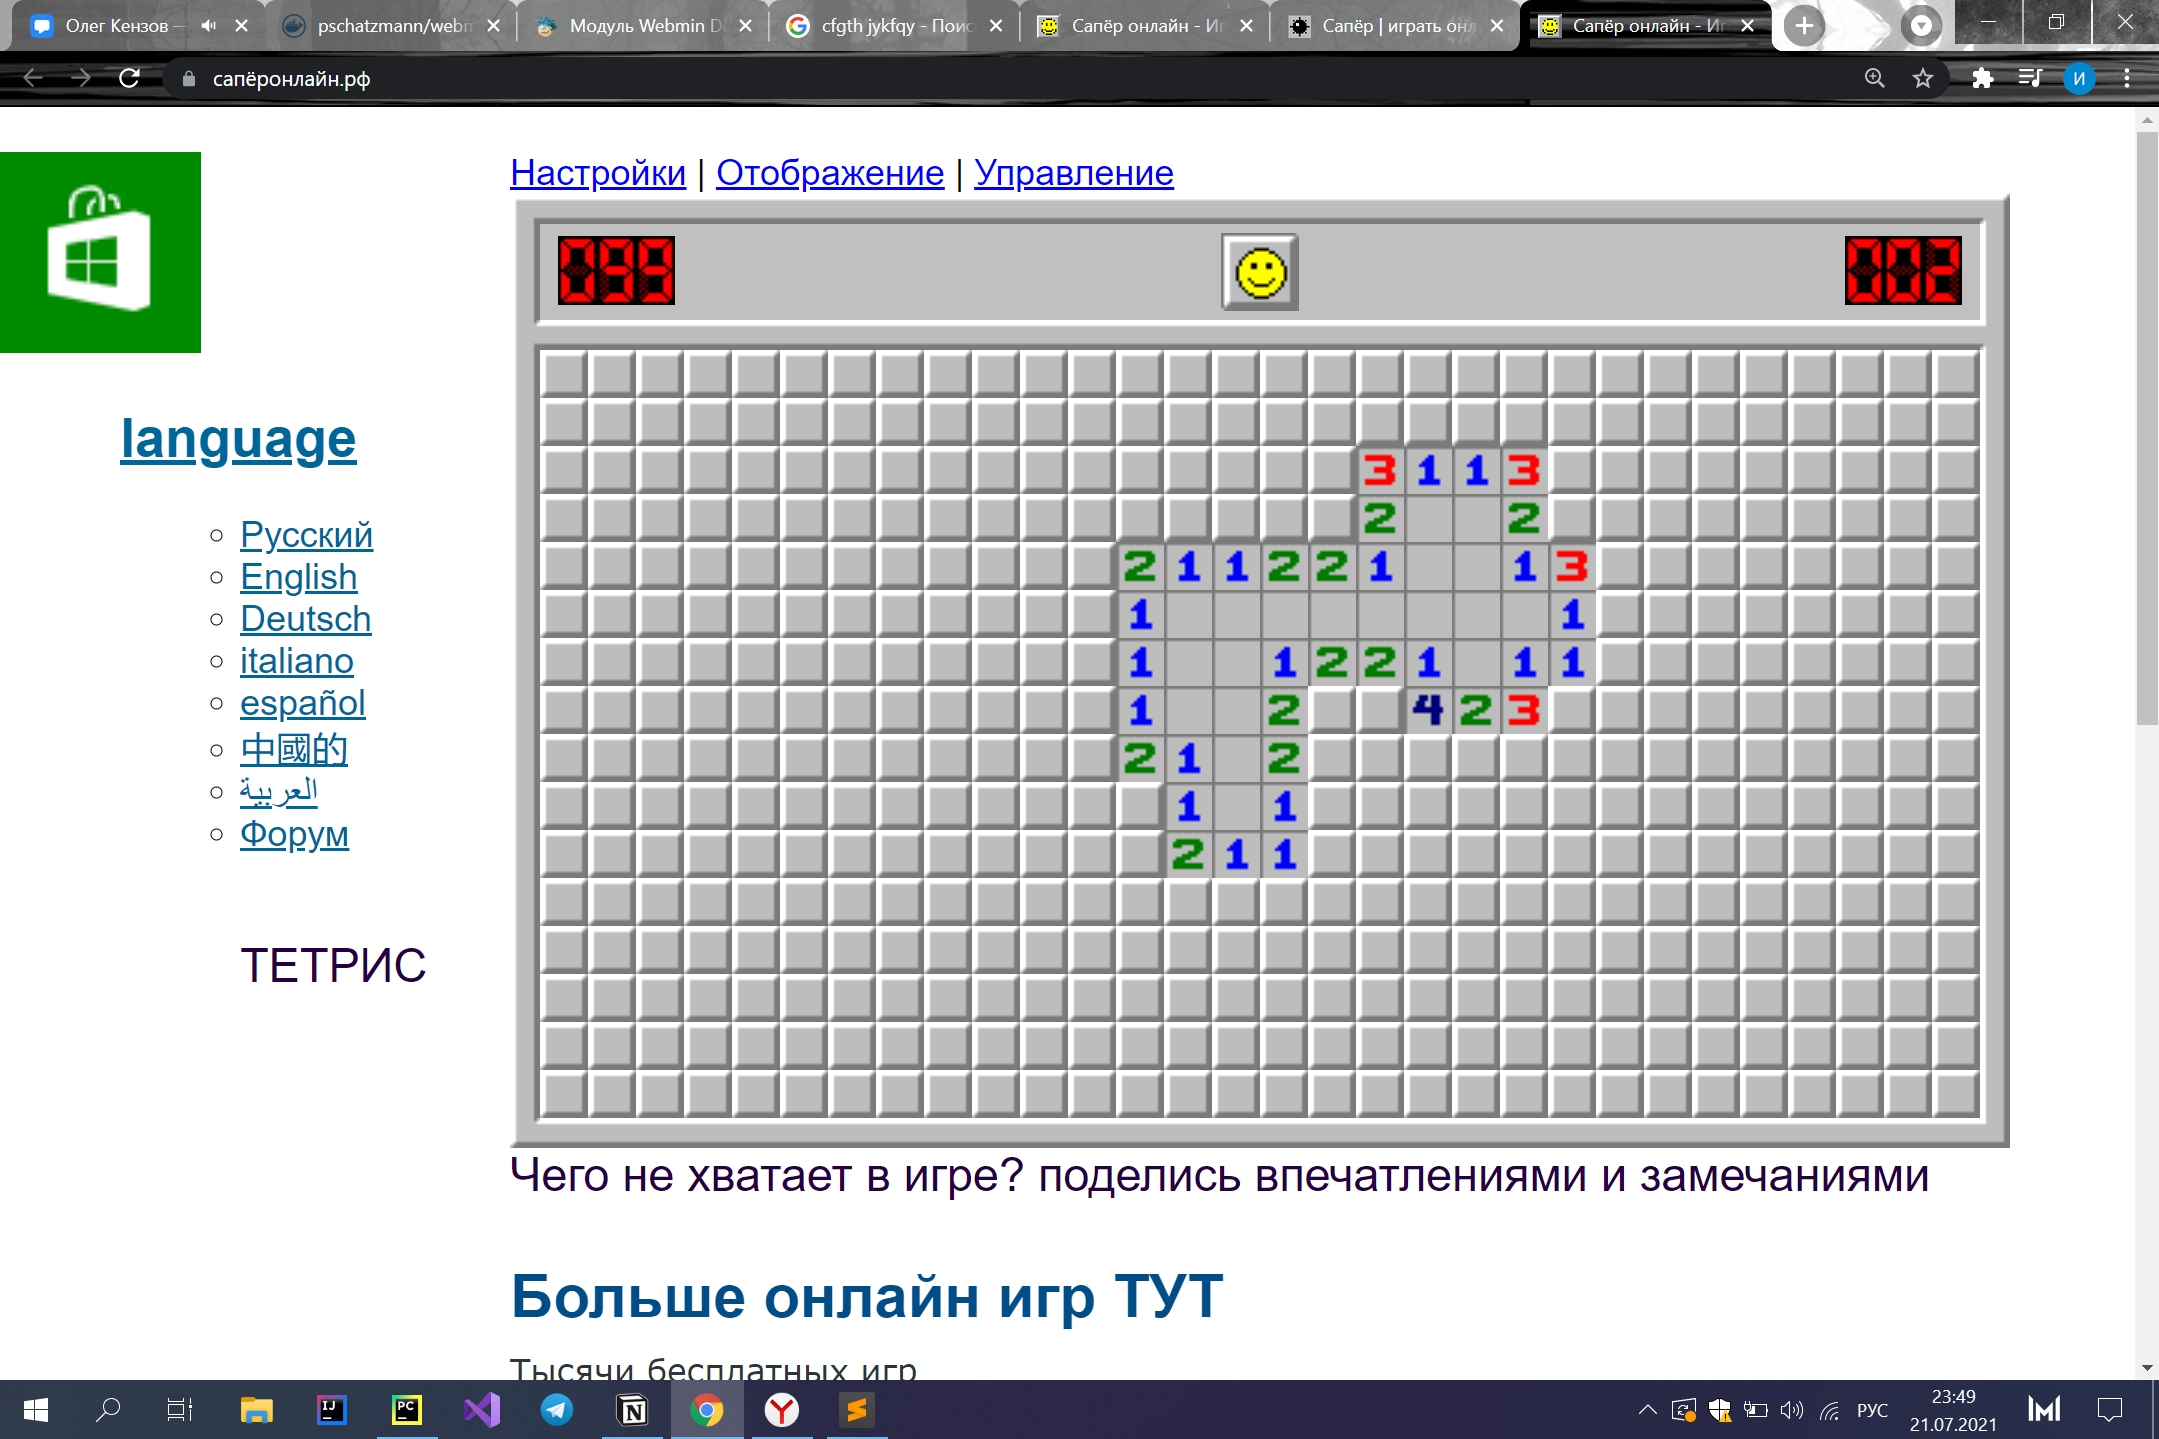
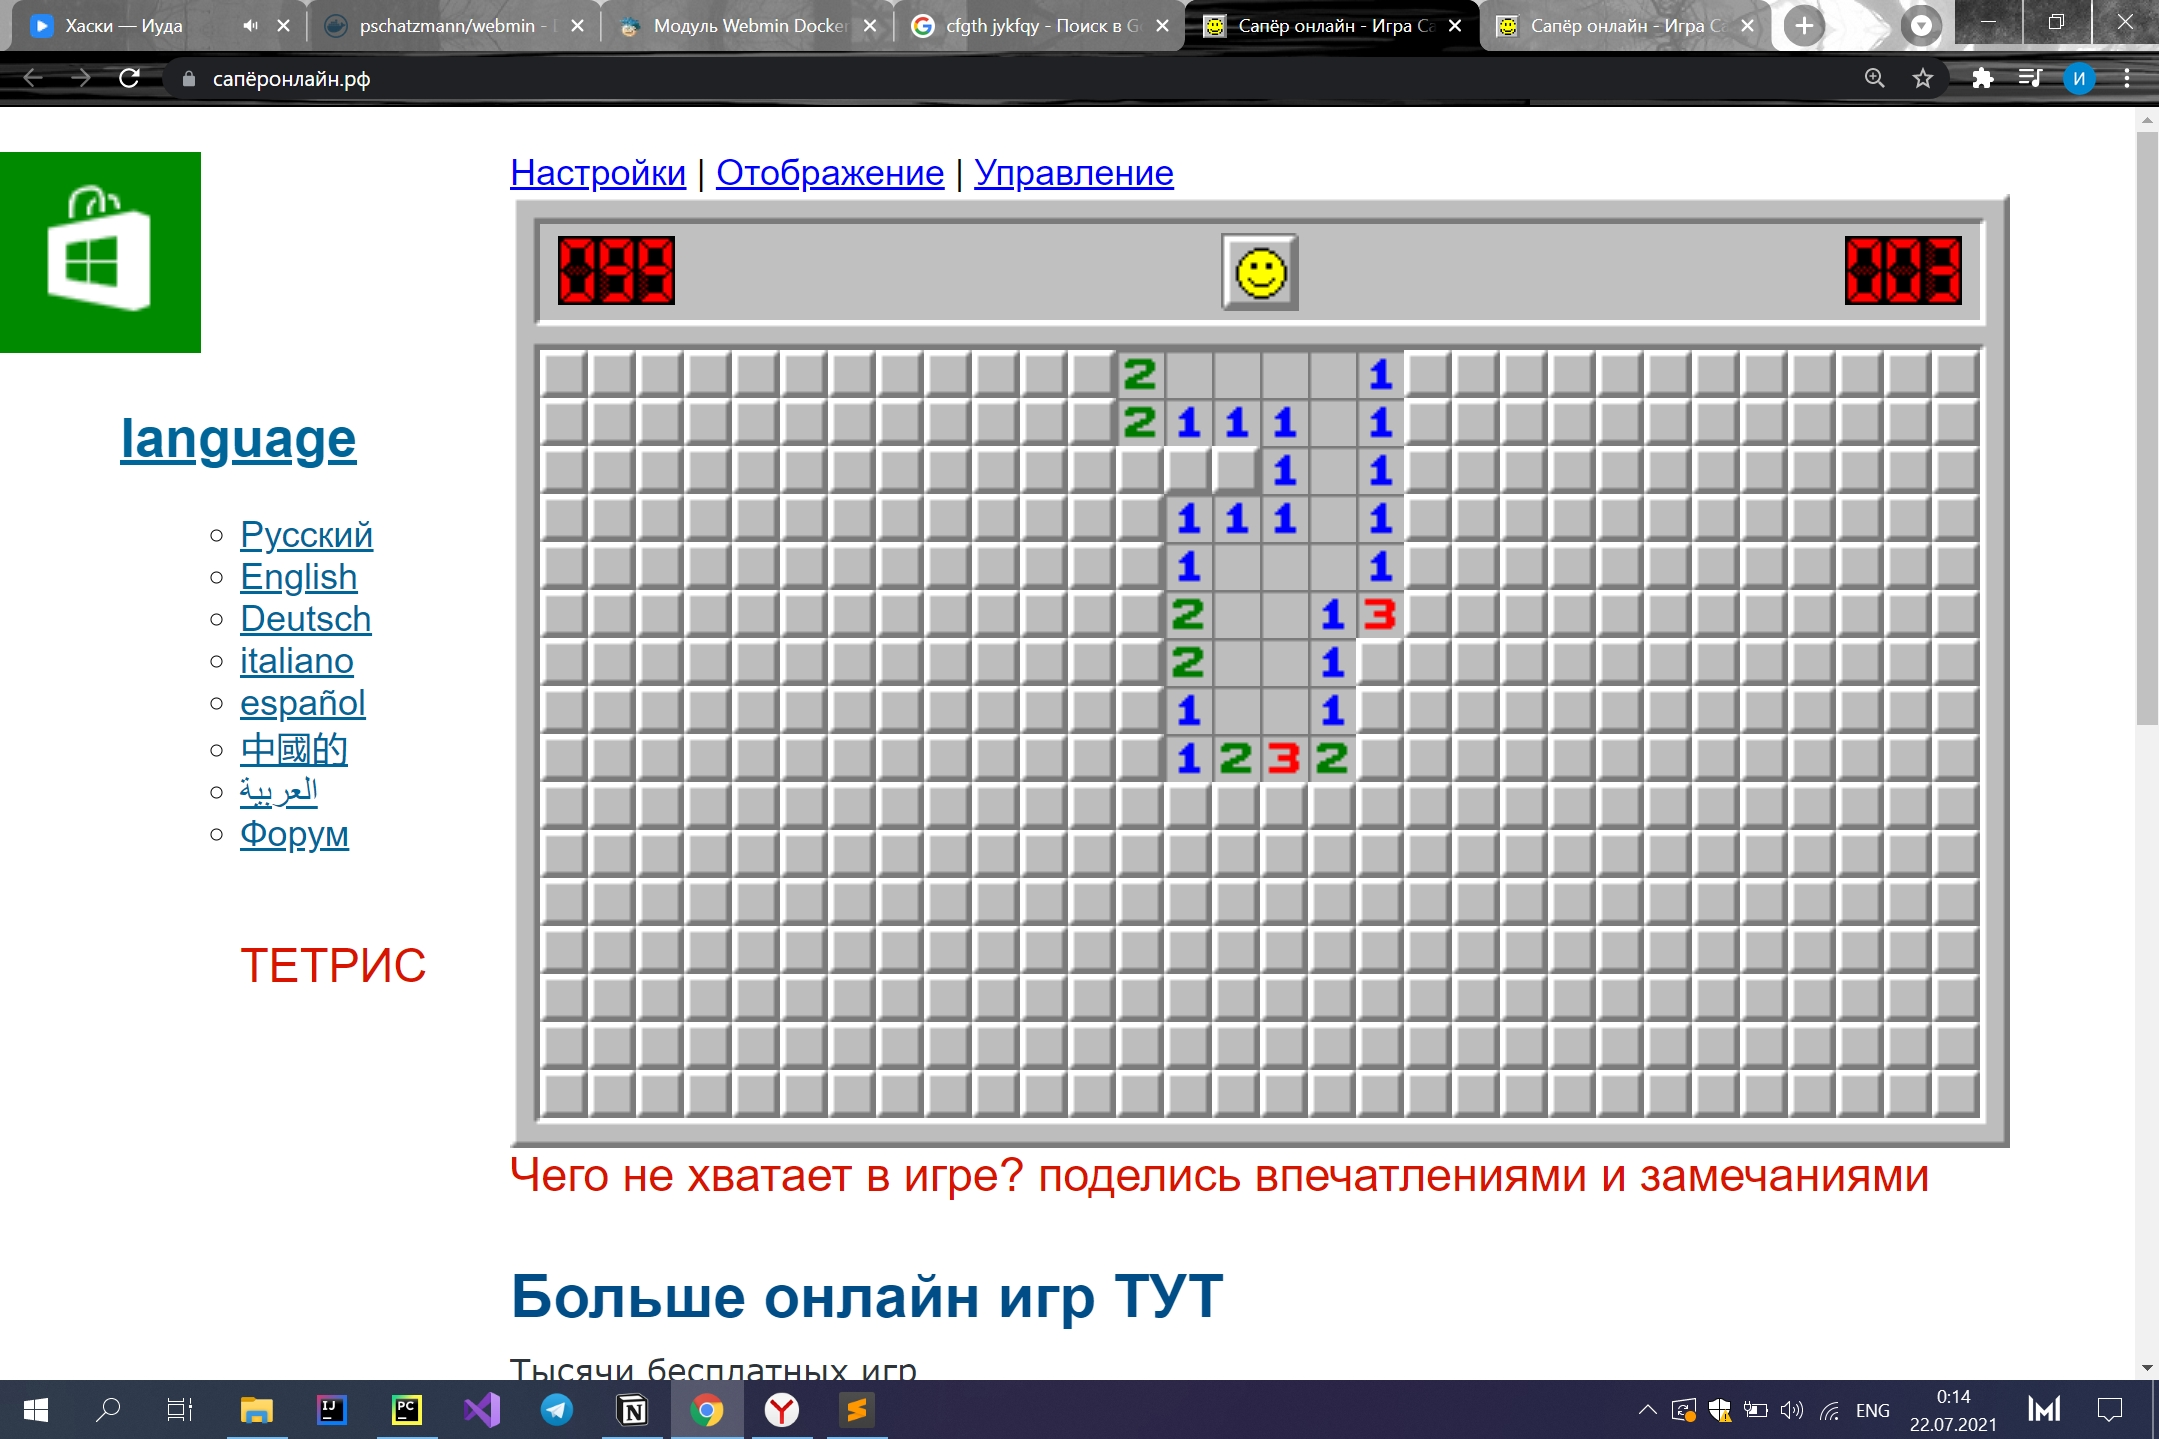
+ обновление таблицы окна решения

diff --git a/ComputerVision.py b/ComputerVision.py
@@ -80,7 +80,11 @@ class ComputerVision(object):
                      cv.imread('top2/1.jpg', cv.IMREAD_COLOR),
                      cv.imread('top2/2.jpg', cv.IMREAD_COLOR),
                      cv.imread('top2/3.jpg', cv.IMREAD_COLOR),
-                     cv.imread('top2/4.jpg', cv.IMREAD_COLOR)]
+                     cv.imread('top2/4.jpg', cv.IMREAD_COLOR),
+                     cv.imread('top2/5.jpg', cv.IMREAD_COLOR),
+                     cv.imread('top2/6.jpg', cv.IMREAD_COLOR),
+                     cv.imread('top2/flag.jpg', cv.IMREAD_COLOR)
+                     ]
 
         listCell = []
         # listCell.append(SapperCell(0, 0, 0, 0, 0))
@@ -88,6 +92,14 @@ class ComputerVision(object):
         for idx, template in enumerate(templates):
             # image = cv.imread('smiley.png', cv.IMREAD_COLOR)
             # template = cv.imread('template.png', cv.IMREAD_COLOR)
+            if idx == 0: nameCell = "\033[0m\033[40m{}".format("0")
+            if idx == 1: nameCell = "\033[0m\033[1m\033[34m{}".format("1")+"\033[0m"
+            if idx == 2: nameCell = "\033[0m\033[1m\033[34m{}".format("2")+"\033[0m"
+            if idx == 3: nameCell = "\033[0m\033[1m\033[34m{}".format("3")+"\033[0m"
+            if idx == 4: nameCell = "\033[0m\033[1m\033[34m{}".format("4")+"\033[0m"
+            if idx == 5: nameCell = "\033[0m\033[1m\033[34m{}".format("5")+"\033[0m"
+            if idx == 6: nameCell = "\033[0m\033[1m\033[34m{}".format("6")+"\033[0m"
+            if idx == 7: nameCell = "\033[0m\033[1m\033[31m{}".format("X")+"\033[0m"
 
             h, w = template.shape[:2]
 
@@ -103,7 +115,7 @@ class ComputerVision(object):
 
                 if max_val > threshold:
                     res[max_loc[1] - h // 2:max_loc[1] + h // 2 + 1, max_loc[0] - w // 2:max_loc[0] + w // 2 + 1] = 0
-                    a = SapperCell(max_loc[0], max_loc[1], max_loc[0] + w + 1, max_loc[1] + h + 1, idx)
+                    a = SapperCell(max_loc[0], max_loc[1], max_loc[0] + w + 1, max_loc[1] + h + 1, nameCell)
                     if SapperCell.checkIntersectCells(a, tableFieldCoord):
                         image = cv.rectangle(image, (max_loc[0], max_loc[1]), (max_loc[0] + w + 1, max_loc[1] + h + 1),
                                              (0, 0, 255), 2)
@@ -112,8 +124,8 @@ class ComputerVision(object):
         listCell.sort(key=lambda cell: (cell.y1, cell.x1))
         # удаляем первый элемент (ложное срабатывание на кнопку)
         # del listCell[0]
-        for i in listCell:
-            print(i.printCell())
+        # for i in listCell:
+        #     print(i.printCell())
 
         return image, listCell
 
@@ -122,17 +134,19 @@ class ComputerVision(object):
     #       необновленные ячейки становятся пустыми (костыли тема)
 
     @staticmethod
-    def searchNumbers(self, img_rgb):
+    def searchNumbers(img_rgb):
         img_gray = cv.cvtColor(img_rgb, cv.COLOR_BGR2GRAY)
         templates = [cv.imread('top/cell.jpg', 0),
                      cv.imread('top/1.jpg', 0),
                      cv.imread('top/2.jpg', 0),
-                     cv.imread('top/3.jpg', 0)]
+                     cv.imread('top/3.jpg', 0),
+                     cv.imread('top/flag.jpg', 0)]
 
         listCell = []
         listCell.append(SapperCell(0, 0, 0, 0, 0))
 
         for idx, temp in enumerate(templates):
+
             w, h = temp.shape[::-1]
             res = cv.matchTemplate(img_gray, temp, cv.TM_CCORR_NORMED)
             threshold = 0.99

diff --git a/main.py b/main.py
@@ -37,14 +37,24 @@ for cell in listCell:
     if i >= 30:
         i = 0
         j = j + 1
-
-sapper.print()
+# sapper.print()
 sapper.printTableValue()
+
+# Клик по рандомной ячеке (или  не рандомной)
+
 
 # TODO: расикдать втруб интерацию ,сделать функцию определения причасности к ячейке (запрещенной в россии организации)))
 # следующая итерация после первого клика по полю
 imageSource, listCell = ComputerVision.searchNumbers2(tableFieldCoord,cv.imread('test3/firstClick.jpg', cv.IMREAD_COLOR))
-print(len(listCell))
+# print(len(listCell))
+sapper.refreshTable(listCell)
+sapper.printTableValue()
 ComputerVision.display(imageSource)
 
+# следующая итерация после разметки первого клика
+imageSource, listCell = ComputerVision.searchNumbers2(tableFieldCoord,cv.imread('test3/secondClick.jpg', cv.IMREAD_COLOR))
+# print(len(listCell))
+sapper.refreshTable(listCell)
+sapper.printTableValue()
+ComputerVision.display(imageSource)
 # See PyCharm help at https://www.jetbrains.com/help/pycharm/

diff --git a/Sapper.py b/Sapper.py
@@ -35,5 +35,24 @@ class Sapper:
             print(' '.join([self.table[i][j].printCell() for j in range(len(self.table[i]))]))
 
     def printTableValue(self):
+        print(" ")
         for i in range(len(self.table)):
             print(''.join([self.table[i][j].printCellValue() for j in range(len(self.table[i]))]))
+
+    def refreshTable(self, listCell):
+        for i in range(self.n):
+            for j in range(self.m):
+                for l in listCell:
+                    x = (l.x1 + l.x2) / 2
+                    y = (l.y1 + l.y2) / 2
+                    if  self.table[i][j].x1 <= x <= self.table[i][j].x2 and \
+                        self.table[i][j].y1 <= y <= self.table[i][j].y2:
+                        self.table[i][j].value = l.value
+                        self.table[i][j].refresh = True # обновилась ли ячейка в таблице
+                        # print (True)
+
+        for i in range(self.n):
+            for j in range(self.m):
+                if not self.table[i][j].refresh:
+                    self.table[i][j].value = "\033[0m{}".format(" ")
+                self.table[i][j].refresh = False

diff --git a/SapperCell.py b/SapperCell.py
@@ -5,8 +5,9 @@ class SapperCell:
     __x2 = 0
     __y2 = 0
     __value = ''
+    __refresh = False
 
-    def __init__(self, x1=0, y1=0, x2=0, y2=0, val=0):
+    def __init__(self, x1=0, y1=0, x2=0, y2=0, val=0,refresh = False):
         # self.__x = (x1 + x2) / 2
         # self.__y = (y2 + y1) / 2
         self.__x1 = x1
@@ -14,6 +15,7 @@ class SapperCell:
         self.__x2 = x2
         self.__y2 = y2
         self.__value = val
+        self.__refresh = refresh
 
     @property
     def x1(self):
@@ -55,6 +57,14 @@ class SapperCell:
     def value(self, val):
         self.__value = val
 
+    @property
+    def refresh(self):
+        return self.__refresh
+
+    @refresh.setter
+    def refresh(self, val):
+        self.__refresh = val
+
     def SapperCell(self, x1, y1, x2, y2, val):
         # self.__x = (x1 + x2) / 2
         # self.__y = (y2 + y1) / 2
@@ -71,7 +81,7 @@ class SapperCell:
 
     def printCellValue(self):
         # print(self.__x+","+self.__y+","+self.value)
-        return "[%s]" % (self.__value)
+        return "%s " % (self.__value)
 
     @staticmethod
     def checkIntersectCells(a, b):
